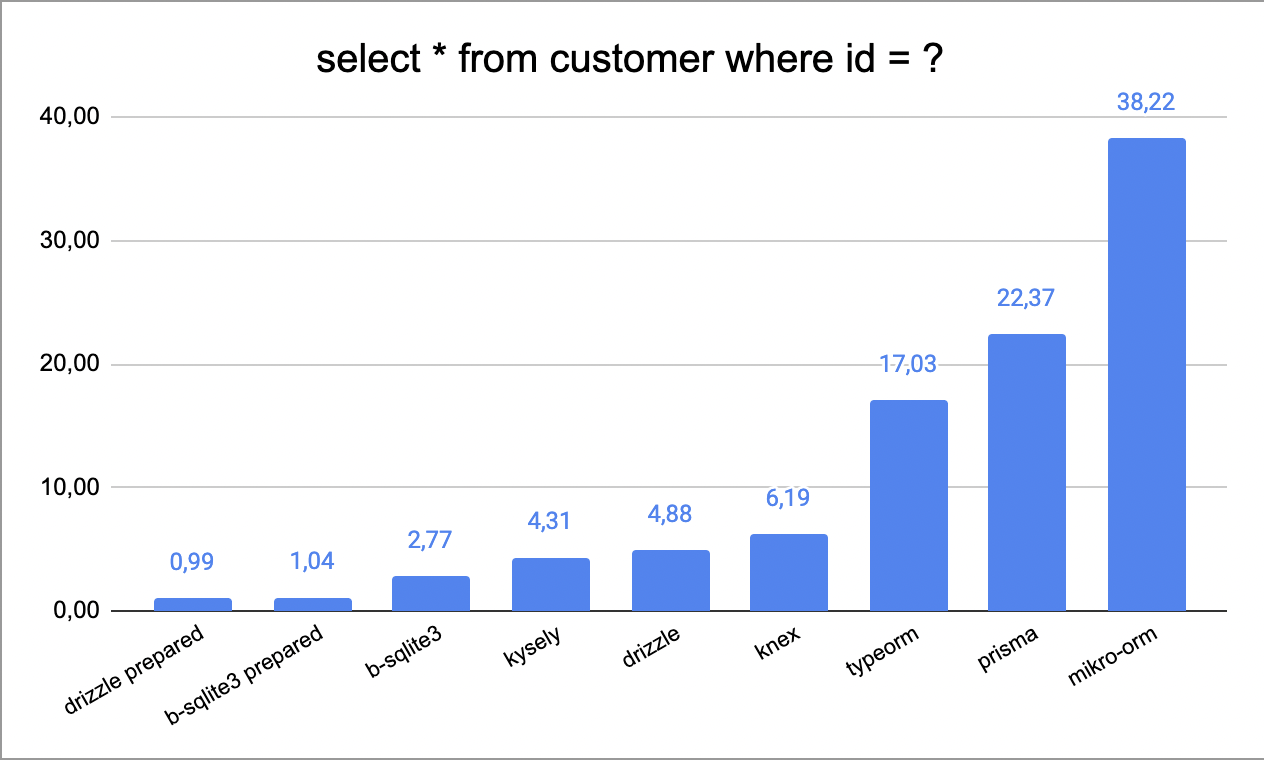
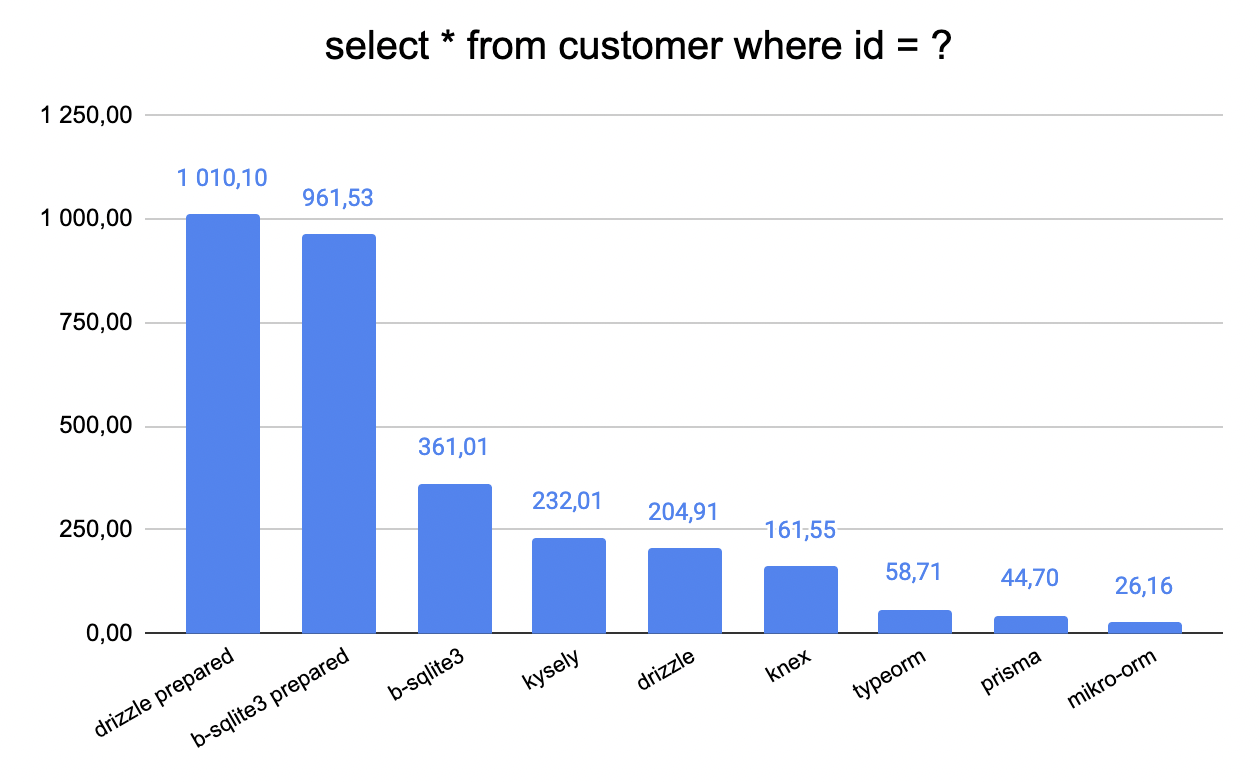
Update README

diff --git a/README.md b/README.md
@@ -39,55 +39,78 @@ pnpm i && pnpm run start
 
 After that you'll get terminal output with results. You can check sample output [here](./output.md)
 
-## Benchmarks 
+## Benchmarks
 
 ---
 
-### Get all customers from database (μs per 1 iteration)
+### Get all customers from database
+
+#### Average queries per second
 
 ![](media/first.png)
 
-### Get a customer by specific ID (ms per 1 iteration)
+### Get a customer by specific ID
+
+#### Average queries per second
 
 ![](media/second.png)
 
-### Get all customers searching by company name (ms per 1 iteration)
+### Get all customers searching by company name
+
+#### Average queries per second
 
 ![](media/three.png)
 
-### Get all employees (μs per 1 iteration)
+### Get all employees
+
+#### Average queries per second
 
 ![](media/four.png)
 
-### Get employees by ID together with reportees (ms per 1 iteration)
+### Get employees by ID together with reportees
+
+#### Average queries per second
 
 ![](media/five.png)
 
-### Get all suppliers (μs per 1 iteration)
+### Get all suppliers
+
+#### Average queries per second
 
 ![](media/six.png)
 
-### Get a supplier by specific ID (ms per 1 iteration)
+### Get a supplier by specific ID
+
+#### Average queries per second
 
 ![](media/seven.png)
 
-### Get all products (μs per 1 iteration)
+### Get all products
+
+#### Average queries per second
 
 ![](media/eight.png)
 
-### Get a product by ID together with all suppliers (ms per 1 iteration)
+### Get a product by ID together with all suppliers
+
+#### Average queries per second
 
 ![](media/nine.png)
 
-### Search for a product by name regex (ms per 1 iteration)
+### Search for a product by name regex
+
+#### Average queries per second
 
 ![](media/ten.png)
 
-### Get all orders with amount of products in it and total price for each order (ms per 1 iteration)
+### Get all orders with amount of products in it and total price for each order
+
+#### Average queries per second
 
 ![](media/eleven.png)
 
-### Get all order details by specific order (ms per 1 iteration)
+### Get all order details by specific order
+
+#### Average queries per second
 
 ![](media/twelve.png)
-
